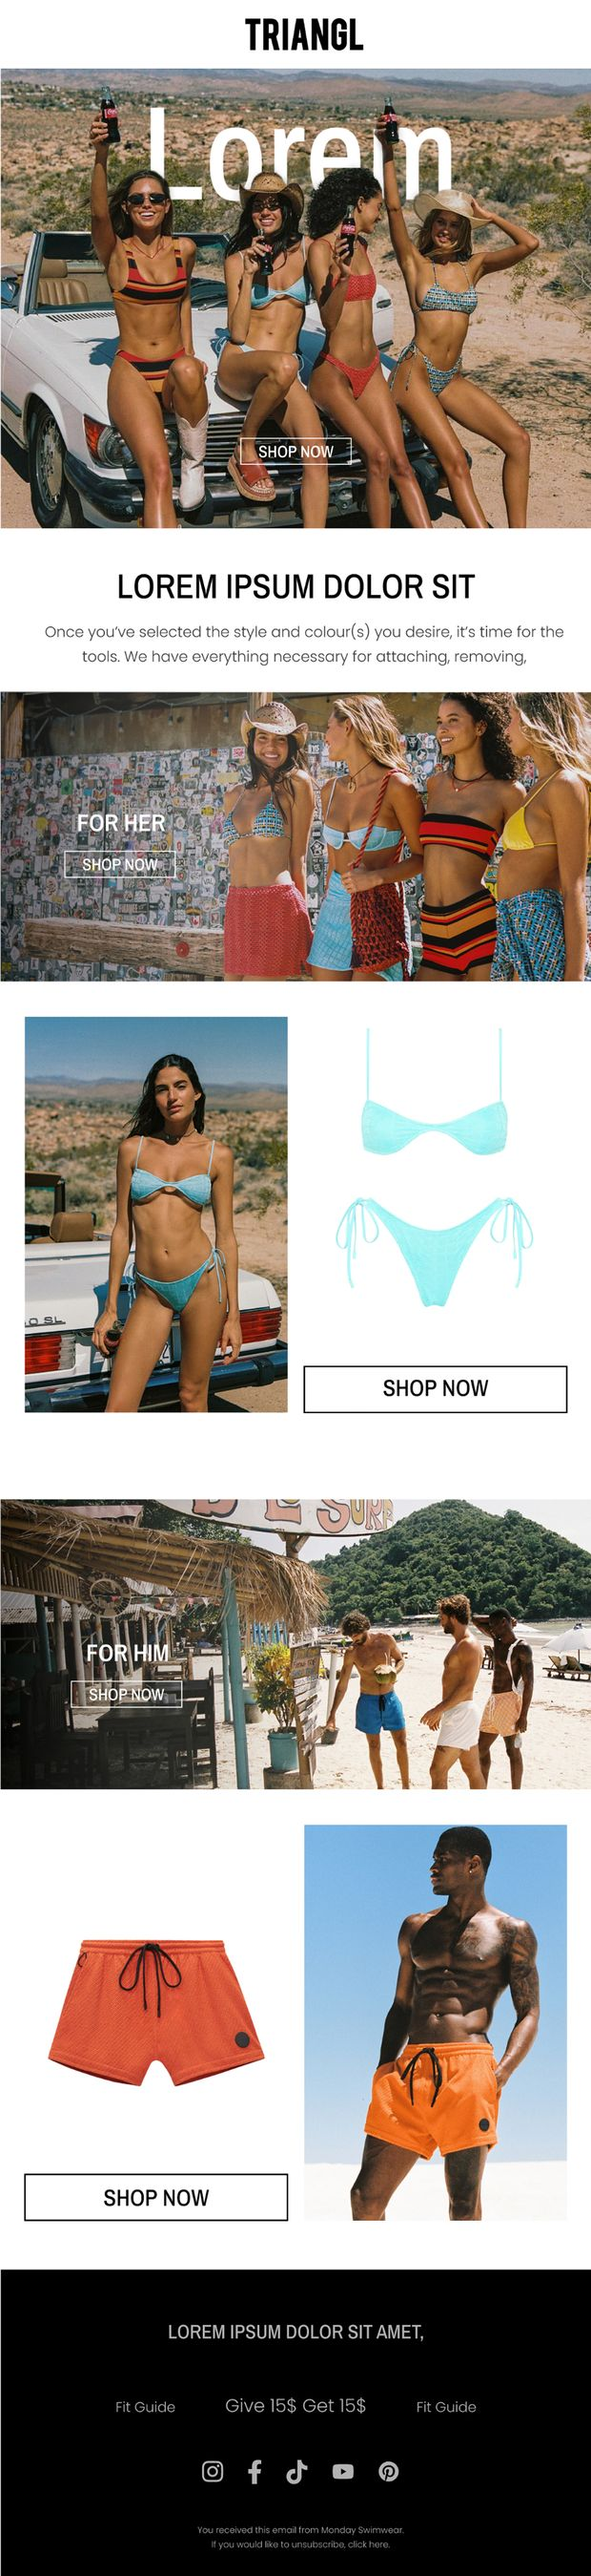
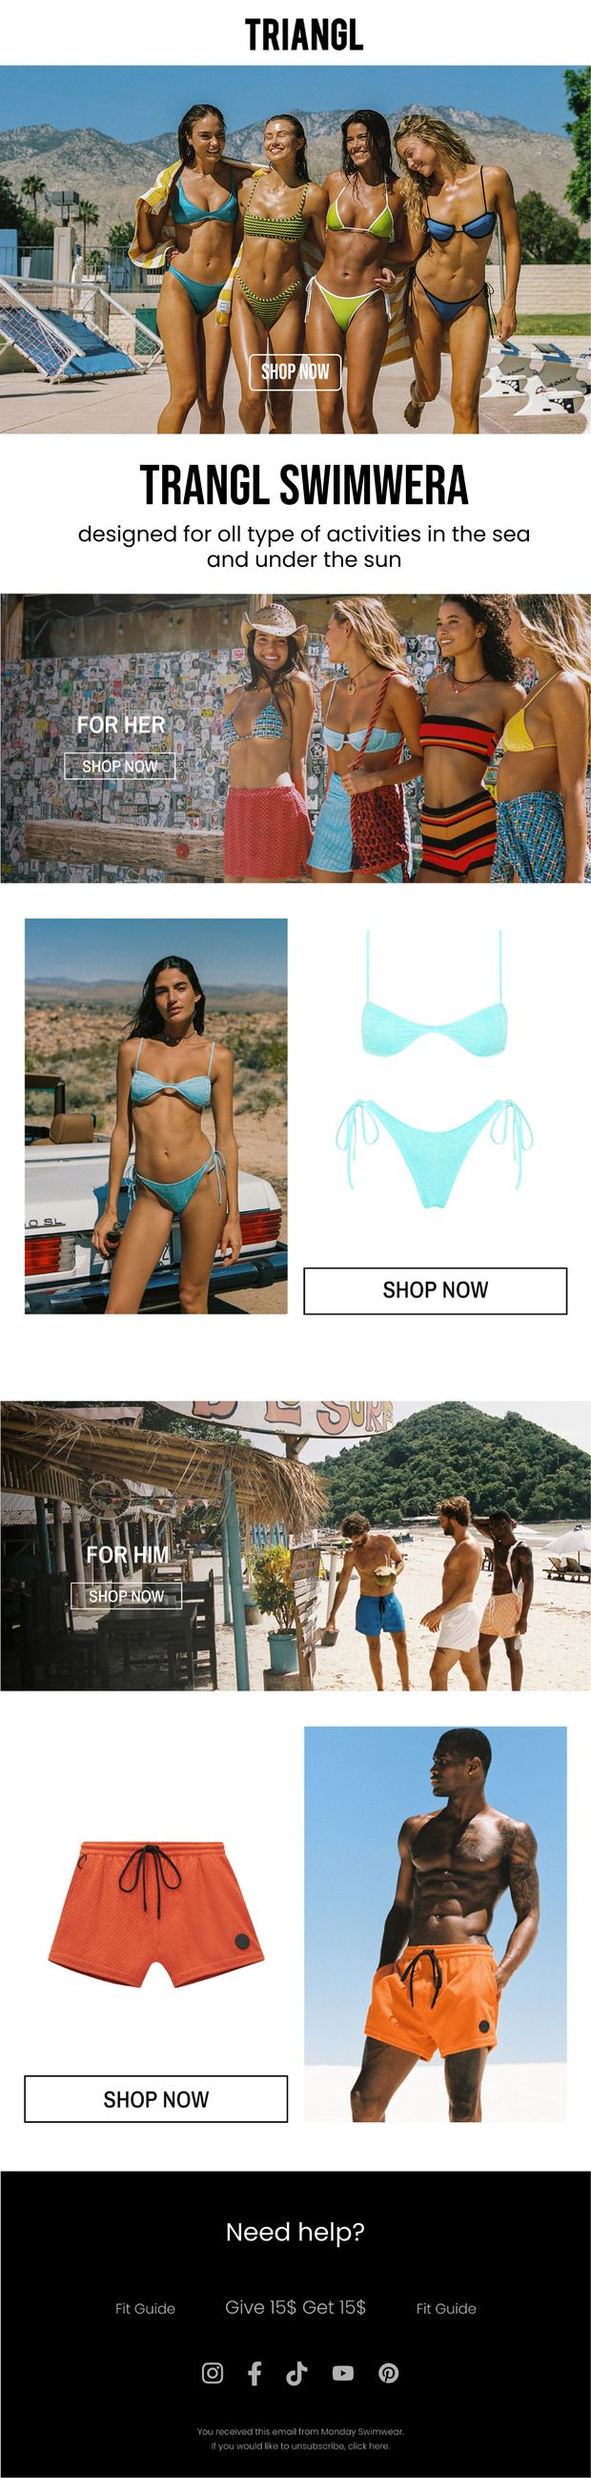
Email page: 25 emails across 8 brands; fix Rapunzel of Sweden name, replace typo versions, dedupe Triangl

diff --git a/email.html b/email.html
@@ -122,8 +122,8 @@
     <p class="reveal in" style="color:var(--text-dim); font-size:17px; max-width:660px; margin-top:20px;">Welcome flows, promotional campaigns, product education and UGC activations for e-commerce brands across beauty, swimwear, activewear and haircare — designed to hold the brand in the inbox and stay readable on a phone.</p>
 
     <div class="em-facts reveal in">
-      <div>Emails<strong>16 designs</strong></div>
-      <div>Brands<strong>7</strong></div>
+      <div>Emails<strong>25 designs</strong></div>
+      <div>Brands<strong>8</strong></div>
       <div>Built in<strong>Klaviyo</strong></div>
       <div>Formats<strong>Flows &amp; campaigns</strong></div>
     </div>
@@ -205,8 +205,8 @@
     <!-- ============ TRIANGL ============ -->
     <div class="em-set">
       <div class="em-set-head reveal">
-        <h2>Triangl</h2>
-        <span>Swimwear — UGC activation &amp; collection</span>
+        <h2>Triangl <span style="color:var(--text-faint); font-weight:400;">/ Casa del Mar</span></h2>
+        <span>Swimwear — UGC activation, collection &amp; brand launch</span>
       </div>
       <div class="em-row">
         <div class="em-card reveal">
@@ -218,10 +218,24 @@
         </div>
         <div class="em-card reveal">
           <div class="em-frame">
-            <img src="images/em-triangl-collection.jpg" alt="Triangl collection email split into For Her and For Him" loading="lazy" decoding="async">
+            <img src="images/em-triangl-giveaway-v2.jpg" alt="Triangl Summer TikTok giveaway, editorial layout with product line-up and terms" loading="lazy" decoding="async">
+            <span class="em-hint">Hover to play</span>
+          </div>
+          <div class="em-cap"><b>Giveaway — editorial cut</b><span>Layout variant</span></div>
+        </div>
+        <div class="em-card reveal">
+          <div class="em-frame">
+            <img src="images/em-triangl-collection.jpg" alt="Triangl swimwear collection email split into For Her and For Him" loading="lazy" decoding="async">
             <span class="em-hint">Hover to play</span>
           </div>
           <div class="em-cap"><b>For Her / For Him</b><span>Collection campaign</span></div>
+        </div>
+        <div class="em-card reveal">
+          <div class="em-frame">
+            <img src="images/em-casadelmar.jpg" alt="Casa del Mar For Him email introducing Triangl's brother brand" loading="lazy" decoding="async">
+            <span class="em-hint">Hover to play</span>
+          </div>
+          <div class="em-cap"><b>Casa del Mar — For Him</b><span>Brand launch</span></div>
         </div>
       </div>
     </div>
@@ -230,22 +244,36 @@
     <div class="em-set">
       <div class="em-set-head reveal">
         <h2>Monday Swimwear</h2>
-        <span>Swimwear — drops &amp; styling</span>
+        <span>Swimwear — campaigns, drops &amp; styling</span>
       </div>
       <div class="em-row">
         <div class="em-card reveal">
           <div class="em-frame">
-            <img src="images/em-monday-drop.jpg" alt="Monday Swimwear new drop email with beach editorial photography" loading="lazy" decoding="async">
+            <img src="images/em-monday-boucle.jpg" alt="Monday Swimwear A Touch of Elegance boucle campaign email, Bahamas editorial" loading="lazy" decoding="async">
+            <span class="em-hint">Hover to play</span>
+          </div>
+          <div class="em-cap"><b>A Touch of Elegance</b><span>Boucle campaign</span></div>
+        </div>
+        <div class="em-card reveal">
+          <div class="em-frame">
+            <img src="images/em-monday-elegance.jpg" alt="Monday Swimwear A Touch of Elegance email with Complete the Look product grid" loading="lazy" decoding="async">
+            <span class="em-hint">Hover to play</span>
+          </div>
+          <div class="em-cap"><b>Elegance — light cut</b><span>Layout variant</span></div>
+        </div>
+        <div class="em-card reveal">
+          <div class="em-frame">
+            <img src="images/em-monday-drop.jpg" alt="Monday Swimwear sweetest drop email with Dragon Fruit, Mango and Summer Peach colourways" loading="lazy" decoding="async">
             <span class="em-hint">Hover to play</span>
           </div>
           <div class="em-cap"><b>Sweetest Drop</b><span>New drop</span></div>
         </div>
         <div class="em-card reveal">
           <div class="em-frame">
-            <img src="images/em-monday-look.jpg" alt="Monday Swimwear Complete the Look styling email" loading="lazy" decoding="async">
+            <img src="images/em-monday-swimwear.jpg" alt="Monday Swimwear email with Complete the Look and Monday Body sections" loading="lazy" decoding="async">
             <span class="em-hint">Hover to play</span>
           </div>
-          <div class="em-cap"><b>Complete the Look</b><span>Styling &amp; cross-sell</span></div>
+          <div class="em-cap"><b>Swimwear / Monday Body</b><span>Styling &amp; cross-sell</span></div>
         </div>
       </div>
     </div>
@@ -270,6 +298,20 @@
             <span class="em-hint">Hover to play</span>
           </div>
           <div class="em-cap"><b>New Drop '26</b><span>Drop &amp; lookbook</span></div>
+        </div>
+        <div class="em-card reveal">
+          <div class="em-frame">
+            <img src="images/em-miavesper-obscura.jpg" alt="Mia Vesper Vesper Obscura email with botanical collage and Most Collected jewellery" loading="lazy" decoding="async">
+            <span class="em-hint">Hover to play</span>
+          </div>
+          <div class="em-cap"><b>Vesper Obscura</b><span>Jewellery edit</span></div>
+        </div>
+        <div class="em-card reveal">
+          <div class="em-frame">
+            <img src="images/em-miavesper-jewelry.jpg" alt="Mia Vesper jewellery email with product grid and shop now actions" loading="lazy" decoding="async">
+            <span class="em-hint">Hover to play</span>
+          </div>
+          <div class="em-cap"><b>Statement Jewellery</b><span>Product grid</span></div>
         </div>
       </div>
     </div>
@@ -298,19 +340,40 @@
       </div>
     </div>
 
-    <!-- ============ RAFAELA OF SWEDEN ============ -->
+    <!-- ============ RAPUNZEL OF SWEDEN ============ -->
     <div class="em-set">
       <div class="em-set-head reveal">
-        <h2>Rafaela of Sweden</h2>
-        <span>Haircare — promotion &amp; routine</span>
+        <h2>Rapunzel of Sweden</h2>
+        <span>Haircare &amp; extensions — promotions, routine &amp; UGC</span>
       </div>
       <div class="em-row">
         <div class="em-card reveal">
           <div class="em-frame">
-            <img src="images/em-rafaela-summer.jpg" alt="Rafaela of Sweden 20% off summer set email with oil ingredient callouts and three routine steps" loading="lazy" decoding="async">
+            <img src="images/em-rapunzel-summer.jpg" alt="Rapunzel of Sweden 20% off Set of Summer email with oil ingredient callouts and three routine steps" loading="lazy" decoding="async">
             <span class="em-hint">Hover to play</span>
           </div>
           <div class="em-cap"><b>Set of Summer</b><span>Promo &amp; routine</span></div>
+        </div>
+        <div class="em-card reveal">
+          <div class="em-frame">
+            <img src="images/em-rapunzel-20off.jpg" alt="Rapunzel of Sweden 20% off everything email with Styled by You and accessories" loading="lazy" decoding="async">
+            <span class="em-hint">Hover to play</span>
+          </div>
+          <div class="em-cap"><b>20% Off Everything</b><span>Sitewide promo</span></div>
+        </div>
+        <div class="em-card reveal">
+          <div class="em-frame">
+            <img src="images/em-rapunzel-styled.jpg" alt="Rapunzel of Sweden Styled by You newsletter featuring customer hair extension looks" loading="lazy" decoding="async">
+            <span class="em-hint">Hover to play</span>
+          </div>
+          <div class="em-cap"><b>Styled by You</b><span>Customer feature</span></div>
+        </div>
+        <div class="em-card reveal">
+          <div class="em-frame">
+            <img src="images/em-rapunzel-setforsummer.jpg" alt="Rapunzel of Sweden Set for Summer email with haircare range and 4 for 3 tape offer" loading="lazy" decoding="async">
+            <span class="em-hint">Hover to play</span>
+          </div>
+          <div class="em-cap"><b>Set for Summer</b><span>Range &amp; offer</span></div>
         </div>
       </div>
     </div>
